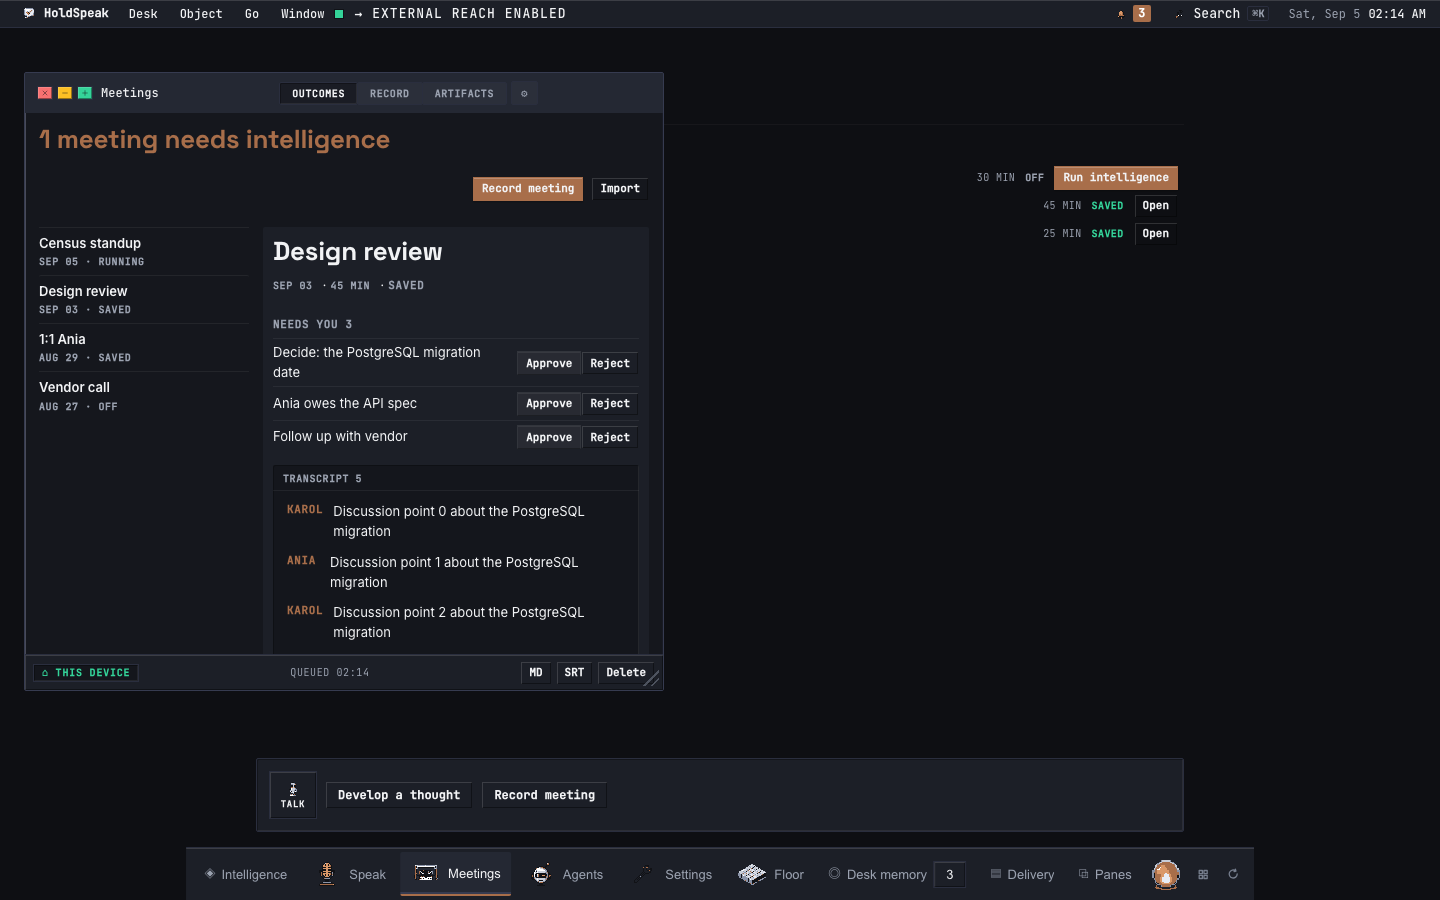
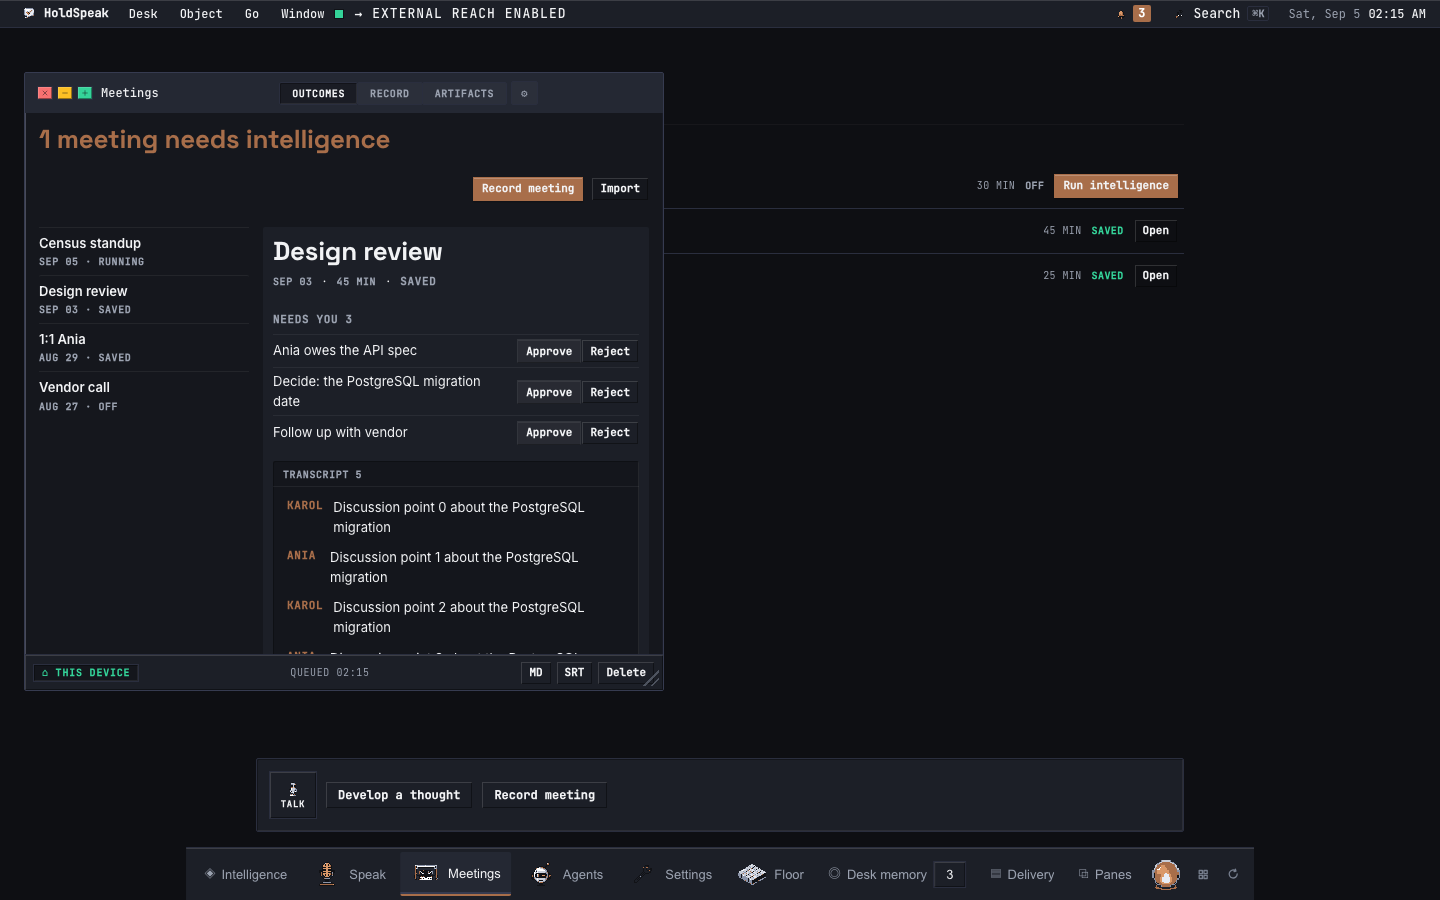
feat(face): HS-170-04 — Meetings detail header separators
Claude-Session: https://claude.ai/code/session_016siGSBgZph9EhEdGMoyWcu
PMO-Story: HS-170-04
PMO-Contract-Digest: sha256:c854b07e7526fb0a931e26650029fdf75866dc4035c73657ca71f89dc70e1dd3

Changed region(s): [[0.1875, 0.3111, 0.4375, 0.7156], [0.6875, 0.1867, 0.8125, 0.3111]]

diff --git a/web/src/pages/cores/history/MeetingHeader.tsx b/web/src/pages/cores/history/MeetingHeader.tsx
@@ -1,6 +1,6 @@
 // HS-170-04 — the detail header: display title + token row.
 // Board: `Design review` (display) + `SEP 02 · 45 MIN · SAVED` tokens.
-// Middle dot (U+00B7) between every token.
+// Middle dot (U+00B7) between every token, equal space both sides.
 import type { ReactNode } from "react";
 import { StateTokenSpan } from "./StateTokenSpan";
 import { ledgerDate, durationToken, stateToken } from "./helpers";
@@ -24,16 +24,20 @@ export function MeetingHeader({
   if (durStr) parts.push(<span key="dur" className="meetings-stream-fact">{durStr}</span>);
   parts.push(<StateTokenSpan key="state" token={token} />);
 
+  // Interleave dots as sibling flex children for equal spacing
+  const interleaved: ReactNode[] = [];
+  parts.forEach((part, i) => {
+    if (i > 0) interleaved.push(
+      <span key={`dot-${i}`} className="meetings-stream-dot" aria-hidden="true">{"·"}</span>
+    );
+    interleaved.push(part);
+  });
+
   return (
     <div className="meetings-detail-head">
       <div className="surface-display">{title}</div>
       <div className="meetings-detail-facts">
-        {parts.map((part, i) => (
-          <span key={i}>
-            {i > 0 ? <span className="meetings-stream-dot" aria-hidden="true">{"·"}</span> : null}
-            {part}
-          </span>
-        ))}
+        {interleaved}
       </div>
     </div>
   );
